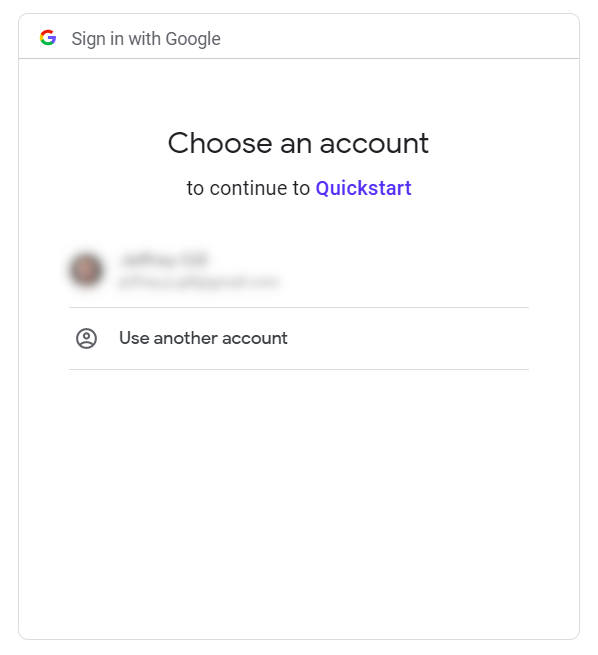
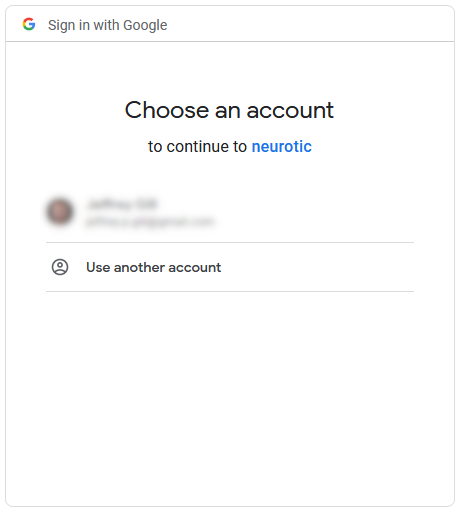
Update docs for Google Drive configuration
The tutorial that neurotic's docs previously relied upon changed, so large sections of the instructions needed to be revised.

diff --git a/docs/gdrive.rst b/docs/gdrive.rst
@@ -5,7 +5,7 @@ Configuring for Google Drive
 
 *neurotic* can download files from Google Drive (see :ref:`gdrive-urls` for
 details on how to specify remote URLs). **However, before this capability can
-be used, you must complete some manual configuration.**
+be used, you must complete these manual configuration procedures.**
 
 .. _gdrive-client-secret:
 
@@ -17,46 +17,66 @@ client-identifying credentials may be included with open source desktop
 applications, it is not possible for *neurotic* to supply users with an
 essential file needed for Google Drive access [1]_. This file is called the
 client secret file, and you will need to generate one yourself. The
-instructions in this section will walk you through this one-time process.
+instructions in this section will walk you through this one-time process. This
+is a normal part of setting up PyDrive2_, the library *neurotic* uses for this
+feature [2]_.
 
 The file produced by following these steps, ``client_secret.json``, does not
 provide access to your Google account, so your account is not compromised if
-the file falls into the wrong hands. However, it does identify you to Google as
-the creator of that file whenever *neurotic* uses it to download files; for
+the file falls into the "wrong hands". However, it does identify you to Google
+as the creator of that file whenever *neurotic* uses it to download files; for
 this reason, you are discouraged from distributing this file to others, as
 abuse of it could cause Google to invalidate it and sanction your account.
 
-The steps below take advantage of a tutorial. If you know what you are doing,
-you can generate your own client secret file from the `Google API Console`_
-instead of using the tutorial, but that procedure is much more complicated. The
-tutorial is comparatively easy.
+Follow these steps to create your client secret file:
 
-1. Click the following link to open a web page. The web page is a tutorial for
-   accessing Google Drive programmatically, as *neurotic* does. You will not
-   need to follow the steps of this tutorial, but it does provide a convenient
-   shortcut for generating the client secret file.
+1. Visit the Google Cloud Platform project dashboard:
 
-        https://developers.google.com/drive/api/v3/quickstart/python
+    https://console.cloud.google.com/projectselector2
 
-2. Click the button labeled "Enable the Drive API" in step 1 of the tutorial.
-   You may be prompted to log into Google, and then a series of dialog boxes
-   will take you through the configuration process. Follow these steps:
+2. Click the "Create Project" button, and name the new project "neurotic", or
+   something similar (the exact name does not matter). Note that you can delete
+   unwanted projects later from the `Cloud Resource Manager`_.
 
-    a. Enter new project name: "neurotic".
-    b. Accept terms of service, if necessary.
-    c. Click "Next".
-    d. Configure your OAuth client: Choose "Desktop app".
-    e. Click "Create".
-    f. Click "Download Client Configuration", which will download a file called
-       ``credentials.json``.
-    g. Click "Done".
+3. Once created, you will be taken to a "Getting Started" page for the new
+   project. The project name should appear at the top of the page, indicating
+   the correct project is selected.
 
-3. Rename ``credentials.json`` to ``client_secret.json``.
+4. Using the search bar at the top of the page, search for and then navigate to
+   "Google Drive API". On that page, click the "Enable" button.
 
-4. Launch *neurotic*. Under the Help menu, click "Open Google Drive credentials
+5. Using the search bar at the top of the page, search for and then navigate to
+   "OAuth consent screen". Complete the form to configure the consent screen
+   that will be displayed when authorizing *neurotic* to access your Google
+   Drive. The following settings are recommended. Understand that from Google's
+   perspective you are the developer of the application which will access
+   Google Drive.
+
+    - User type: External
+    - App name: "neurotic"
+    - User support email: <your email>
+    - Developer contact information: <your email>
+    - Other optional fields may be left blank
+    - Scopes: Search for and add "drive.readonly"
+    - Test users: Add email addresses for all Google Drive accounts you would
+      like to use with *neurotic*, including the Google account you are using
+      to make this project if so desired
+
+6. Using the search bar at the top of the page, search for and then navigate to
+   "Credentials". Click the "Create Credentials" button and choose "OAuth
+   client ID" from the menu. Set Application Type to "Desktop app". Use the
+   name "Desktop client 1".
+
+7. After the OAuth client credentials are created, you will see an entry on the
+   Credentials page named "Desktop client 1". Click the download button on the
+   far right of the entry to download a JSON file. It will have a name like
+   ``client_secret_XXX.apps.googleusercontent.com.json``, where ``XXX`` is a
+   long random string.
+
+8. Rename the downloaded file to ``client_secret.json``.
+
+9. Launch *neurotic*. Under the Help menu, click "Open Google Drive credentials
    directory". Move the ``client_secret.json`` file into this folder.
-
-5. Finally, close and restart *neurotic*.
 
 .. _gdrive-authorization:
 
@@ -71,53 +91,48 @@ under the Help menu, you will need to complete the following steps to authorize
 *neurotic* to access your Google Drive:
 
 1. Your web browser will open and ask you to sign into a Google account before
-   continuing to "Quickstart". This name comes from the tutorial used to make
-   the client secret file.
+   continuing to *neurotic*. You will need to select one of your Google
+   accounts that was added as a "test user" when creating the client secret
+   file. Other accounts will be denied access.
 
    .. image:: _static/gdrive-auth-1.png
     :alt: Google Drive authorization flow, step 1
     :width: 300
 
-2. You will be presented with an intimidating warning about the app being
-   unverified by Google. You will see your own email listed as the software
-   developer because this warning is associated with the client secret file you
-   created.
+2. Next you will see a notification that the app has not been verified by
+   Google. Your own email address will be listed as the software developer
+   because this notice is associated with the client secret file you created.
+   The message will also state that the app is being tested (rather than is a
+   finalized product) because the project you created for the client secret
+   file is private.
 
-   .. image:: _static/gdrive-auth-2.png
-    :alt: Google Drive authorization flow, step 2
-    :width: 400
-
-3. Due to the terms-of-service limitations mentioned earlier, it is not
+   Due to the terms-of-service limitations mentioned earlier, it is not
    possible for *neurotic* to distribute a client secret file that would avoid
-   presenting you with this warning. This policy exists because open source
+   presenting you with this notice. This policy exists because open source
    desktop applications can be modified by anyone with access to the system at
    any time, making it impossible for Google to certify that the mutable app
    has any particular identity and is safe. If you trust the application and
-   are willing to proceed without Google's stamp of approval, click "Advanced"
-   to reveal more text, and then click "Go to Quickstart (unsafe)", which will
-   take you past this warning.
+   are willing to proceed, click "Continue".
+
+   .. image:: _static/gdrive-auth-2.png
+    :alt: Google Drive authorization flow, step 2
+    :width: 300
+
+3. To download files from your Google Drive, *neurotic* needs the privileges to
+   access and read those files. Click "Allow" to indicate that you want to
+   allow this.
 
    .. image:: _static/gdrive-auth-3.png
     :alt: Google Drive authorization flow, step 3
-    :width: 400
+    :width: 300
 
-4. To download files from your Google Drive, *neurotic* needs the privileges to
-   access and read those files. Click "Allow" to indicate that you want to
-   allow this. Note that again the app is referred to as "Quickstart" due to
-   the settings of the tutorial used to create the client secret file.
+4. Click "Allow" another time to confirm.
 
    .. image:: _static/gdrive-auth-4.png
     :alt: Google Drive authorization flow, step 4
     :width: 300
 
-5. Click "Allow" another time to confirm. Again, "Quickstart" refers to your
-   client secret file, which *neurotic* will use.
-
-   .. image:: _static/gdrive-auth-5.png
-    :alt: Google Drive authorization flow, step 5
-    :width: 300
-
-6. When you see this message in your browser, you can close it: "The
+5. When you see this message in your browser, you can close it: "The
    authentication flow has completed."
 
 The authorization process should now be complete, and you can begin using
@@ -161,4 +176,9 @@ and you will have the opportunity to select a different Google account.
 .. [1] See `this StackOverflow question
        <https://stackoverflow.com/q/27585412>`_ for an informal discussion.
 
-.. _Google API Console: https://console.developers.google.com
+.. [2] See also `PyDrive2 Getting Started
+       <https://iterative.github.io/PyDrive2/docs/build/html/quickstart.html#authentication>`_.
+
+.. _PyDrive2: https://pypi.org/project/PyDrive2/
+
+.. _Cloud Resource Manager: https://console.cloud.google.com/cloud-resource-manager
